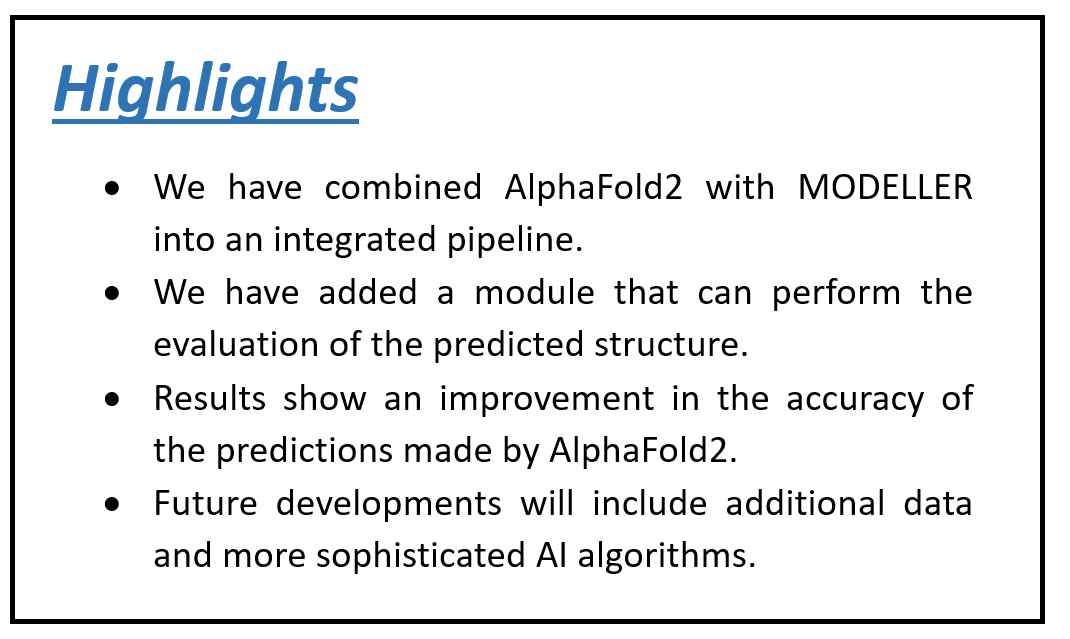
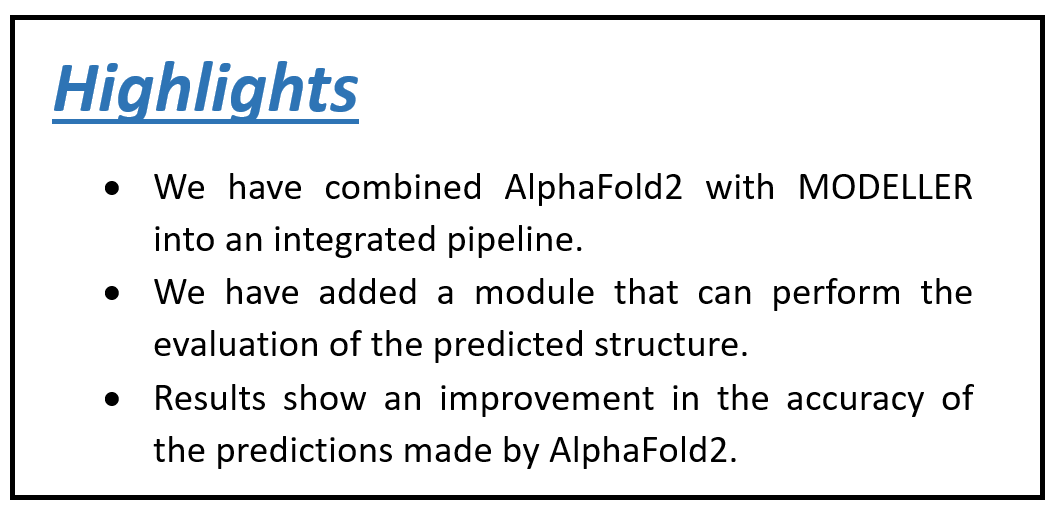
Updated README.md

diff --git a/README.md b/README.md
@@ -3,35 +3,17 @@
 </p>
 
 <h1 align="center">
-AlphaMod
+AlphaMod<br>
+An Automated Pipeline Integrating AlphaFold 2 and Modeller for Protein Structure Prediction 
 </h1>
 
 
 # Abstract
-**Motivation:** The ability to predict the three-dimensional conformation of a protein serves as a key entry point for
-investigating evolutionary connections with other members of the corresponding protein family, examining interactions
-with other proteins, and potentially utilizing this knowledge for the purpose of rational drug design. Considering that,
-during the 14th round of the Critical Assessment of Structure Prediction (CASP14), AlphaFold2’s 3D protein structure
-predictions demonstrated a GDT TS score surpassing 90%, signifying it attained an accuracy level comparable to
-experimental results. In addition, one year later, the team responsible for AlphaFold2 released predictions for over
-200 million structures. Despite achieving remarkable success, only a relatively modest proportion of these structures
-(approximately 35%) were deemed to be highly accurate. Therefore, our investigation was designed to evaluate the
-feasibility of improving AlphaFold2’s predictions as a post-processing step by merging AlphaFold2 with the traditional
-spatial restraints approach applied by MODELLER, resulting in the development of a novel pipeline we called AlphaMod.
-Furthermore, a validation of AlphaMod using two distinct datasets was conducted. The first dataset consisted of CASP14
-targets, while the second dataset adhered to the same criteria as a study conducted by another research group. Finally, this
-study aims to introduce a novel bioinformatics pipeline that seeks to improve the accuracy of protein structure prediction,
-with three primary objectives: (1) identifying protein families that are best suited for the AlphaMod approach, (2) confirm
-the feasibility of improving AlphaFold2’s predictions and (3) offering a comprehensive metric assessment tool for large-
-scale protein structure evaluation.<br><br>
-**Results:** The coupling of two distinct modeling strategies in our pipeline has enabled us to demonstrate and validate
-an enhancement in the GDT TS score in two different datasets. Additionally, when conducting pairwise comparisons,
-AlphaMod yielded a superior GDT TS score compared to AlphaFold2 alone in 70.4% of the cases in the CASP14 dataset
-and 56% of the cases in the second dataset
+The ability to predict a protein's three-dimensional conformation represents a crucial starting point for investigating evolutionary connections with other members of the corresponding protein family, examining interactions with other proteins, and potentially utilizing this knowledge for the purpose of rational drug design. In this work, we evaluated the feasibility of improving AlphaFold2’s three-dimensional protein predictions by developing a novel pipeline (AlphaMod) that incorporates AlphaFold2 with MODELLER, a template-based modeling program. Additionally, our tool can drive a comprehensive quality assessment of the tertiary protein structure by incorporating and comparing a set of different quality assessment tools. The   outcomes of selected tools are combined into a composite score (BORDASCORE) that exhibits a meaningful correlation with GDT_TS and facilitates the selection of optimal models in the absence of a reference structure. To validate AlphaMod's results, we conducted evaluations using two distinct datasets summing up to 72 targets, previously used to independently assess AlphaFold2's performance. The generated models underwent evaluation through two methods: i) averaging the GDT_TS scores across all produced structures for a single target sequence, and ii) a pairwise comparison of the best structures generated by AlphaFold2 and AlphaMod. The latter, within the unsupervised setups, shows a rising accuracy of approximately 34% over AlphaFold2. While, when considering the supervised setup, AlphaMod surpasses AlphaFold2 in 18% of the instances. Finally, there is an 11% correspondence in outcomes between the diverse methodologies. Consequently, AlphaMod’s best-predicted tertiary structures in several cases exhibited a significant improvement in the accuracy of the predictions with respect to the best models obtained by AlphaFold2. This pipeline paves the way for the integration of additional data and AI-based algorithms to further improve the reliability of the predictions. 
 
 # AlphaMod - [Paper](https://google.com)
 Cite this paper <br>
--->put the citation reference here<--
+<pre><code>-->put the citation reference here<--</code></pre>
 
 
 
@@ -40,12 +22,14 @@ Figure 1 - AlphaMod Pipeline
 </h1>
 
 ![AlphaMod Pipeline](https://github.com/Fabio-Gil-Z/AlphaMod/blob/main/Images/Figure_01.png)<br /> <br />
+# HIGHLIGHTS
+![AlphaMod Pipeline](https://github.com/Fabio-Gil-Z/AlphaMod/blob/main/Images/highlights.png)<br /> <br />
 
 <h1 align="center">
 RESULTS
 </h1>
 <h2 align="center">
-Table 1 - SINGLE DOMAINS - TEST SET A (AlphaFold2 vs AlphaMod)
+Table 1: Highest GDT_TS score for the different types of models over the whole Evaluation Units. 
 </h2>
 
 ![AlphaMod Pipeline](https://github.com/Fabio-Gil-Z/AlphaMod/blob/main/Images/Table_1.png)<br /> <br />
@@ -57,7 +41,7 @@ Table 1 - SINGLE DOMAINS - TEST SET A (AlphaFold2 vs AlphaMod)
 RESULTS
 </h1>
 <h2 align="center">
-Table 2 - WHOLE DOMAINS - TEST SET A (AlphaFold2 vs AlphaMod)
+Table 2: Average RMSD for the different types of models obtained (domains only) Test set B. 
 </h2>
 
 ![AlphaMod Pipeline](https://github.com/Fabio-Gil-Z/AlphaMod/blob/main/Images/Table_2.png)<br /> <br />
@@ -67,16 +51,20 @@ Table 2 - WHOLE DOMAINS - TEST SET A (AlphaFold2 vs AlphaMod)
 FIGURE 2
 </h1>
 <h2 align="center">
-CORRELATION BETWEEN GDT_TS AND QUALITY ASSESSMENT MEASURES
+CORRELATION BETWEEN GDT_TS AND QUALITY ASSESSMENT MEASURES ON BEST PREDICTED STRUCTURES
 </h2>
 
 
 <h2 align="center">
-<span>A:</span> GDT_TS vs <a href="http://molprobity.biochem.duke.edu/">MOLPROBITY</a> &nbsp;&nbsp; <span>B:</span> GDT_TS vs <a href="https://alphafold.ebi.ac.uk/faq"> pLDDT</a> 
+
+<span>A:</span> GDT_TS vs <a href="https://alphafold.ebi.ac.uk/faq"> pLDDT</a> &nbsp;&nbsp; <span>B:</span> GDT_TS vs <a href="https://swissmodel.expasy.org/qmean/">  QMEAN</a>
 </h2>
 
 <h2 align="center">
-<span>C:</span> GDT_TS vs <a href="https://salilab.org/modeller/"> DOPESCORE</a> &nbsp;&nbsp; <span>D:</span> GDT_TS vs <a href="https://swissmodel.expasy.org/qmean/">  QMEAN</a>
+<span>C:</span> GDT_TS vs <a href="https://prosa.services.came.sbg.ac.at/prosa.php">Prosa(z-score)</a> &nbsp;&nbsp; <span>D:</span> GDT_TS vs <a href="https://saves.mbi.ucla.edu/">PROCHECK</a>
+
+
+<span>E:</span> GDT_TS vs <a href="http://molprobity.biochem.duke.edu/">MOLPROBITY</a> &nbsp;&nbsp; <span>F:</span> GDT_TS vs <a href="https://salilab.org/modeller/"> DOPESCORE</a>
 </h2>
 
 <h2 align="center">
@@ -88,22 +76,20 @@ CORRELATION BETWEEN GDT_TS AND QUALITY ASSESSMENT MEASURES
 ![AlphaMod Pipeline](https://github.com/Fabio-Gil-Z/AlphaMod/blob/main/Images/Figure_02.PNG)<br /> <br />
 
 <h1 align="center">
-Figure 3 - TEST SET A - TARGET T1038-D1
+Figure 3 - TARGET T1038-D1 - TEST SET A
 </h1>
 
 ![AlphaMod Pipeline](https://github.com/Fabio-Gil-Z/AlphaMod/blob/main/Images/Figure_03.png)<br /> <br />
 
 
-<h2 align="center">
-FIGURE 4 - OP1 BEST MODELS CORRELATION
-</h2>
-
-![AlphaMod Pipeline](https://github.com/Fabio-Gil-Z/AlphaMod/blob/main/Images/Figure_04.PNG)<br /> <br />
-
-
 <h1 align="center">
-RESULTS
+SUPPLEMENTARY MATERIAL
 </h1>
+<h2 align="center">
+BEST METHOD DISTRIBUTION ACROSS DIFFERENT EVALUATION UNITS
+</h2>
+![AlphaMod Pipeline](https://github.com/Fabio-Gil-Z/AlphaMod/blob/main/Images/Supplementary_Table_Evaluation_Units.PNG)<br /> <br />
+
 <h2 align="center">
 Supplementary Table 1 - Average GDT_TS scores for the different types of models obtained (domains only) for Test set A.
 </h2>
@@ -121,31 +107,25 @@ Supplementary Table 2 - Average GDT_TS scores for the different types of models 
 ![AlphaMod Pipeline](https://github.com/Fabio-Gil-Z/AlphaMod/blob/main/Images/Supplementary_Table_2.png)<br /> <br />
 
 # CONCLUSIONS
-<p>Despite AF2’s outstanding achievements in terms of the
-accuracy of protein structure predictions, we have demonstrated
-that, in principle, coupling this innovative deep learning-
-based tool with traditional modelling strategies can improve
-the results obtained. Furthermore, our pipeline provides the
-capability to benchmark a wide range of existing datasets,
-due to its robust capacity for handling large-scale information.
-Unfortunately, where AF2 fails to achieve high quality results
-(GDT TS <50), the use of MODELLER cannot significantly
-improve prediction accuracy.</p>
-<p>However, the current pipeline is only the first brick for
-the development of a tool that will also handle heterogeneous
-information, in addition to sequence-related features, to
-perform better predictions for selected subsets of proteins, with
-non-common structural features. According to our research, the
-addition of supplementary data has the potential to improve the
-predictive accuracy in most of the forecasted models.</p>
-<p>Moreover, in future research it would be of great interest
-to study the feasibility of jointly using supplementary data
-and AI-based integration models to improve predictions in
-situations where AF2’s performance level is below 50%.</p>
+<p>While AF2 has achieved remarkable accuracy in predicting protein structure, our study has highlighted the potential for further improvement. We have demonstrated that, in principle, by combining this cutting-edge deep learning tool with traditional modeling strategies, it is possible to achieve a substantial improvement in the quality of a protein’s tertiary structure, especially in terms of GDT_TS. Only where AF2 fails to achieve high quality results on average and top-two best comparisons over these targets: T1029-D1, T1043-D1, T1047s1-D1, 7MSW-D1, our AlphaMod procedures cannot significantly improve prediction accuracy.</p>
 
-# HIGHLIGHTS
 
-![AlphaMod Pipeline](https://github.com/Fabio-Gil-Z/AlphaMod/blob/main/Images/highlights.png)<br /> <br />
+<p>Furthermore, our pipeline provides a unified platform for comprehensive protein structural quality assessment, encompassing several metrics. This addresses the current challenge where these tools are dispersed across multiple service providers. AlphaMod, on the other hand, offers an integrated solution by centralizing all these quality assessment tools within a single, easily accessible platform.</p>
+
+
+<p>The current pipeline is only the first brick for the development of a tool that will also handle heterogeneous information, in addition to sequence-related features, to perform better predictions for selected subsets of proteins, with non-common structural features. According to our research, the addition of supplementary data has the potential to improve the predictive accuracy in most of the predicted models. </p>
+
+<p>Moreover, in future research it would be of great interest to study the feasibility of jointly using supplementary data and AI-based integration models to improve predictions in situations where AF2’s performance level is below 50%.</p>
+
+# FUNDING
+<p>This work was supported by UNIVERSITY OF SALERNO, [grant numbers ORSA208455, ORSA219407, and ORSA229241]; by MIUR, [grant FFABR2017 and PRIN 2017 program, grant number: 2017483NH8]; and by BANCA D’ITALIA (NDA, AM).</p>
+
+# ACKNOWLEDGMENT
+
+<p>The authors wish to thank the CINECA SuperComputing Application and Innovation department (SCAI) of Bologna (Italy) for granting MARCONI100 and Elixir</p>
+
+
+
 
 
 
